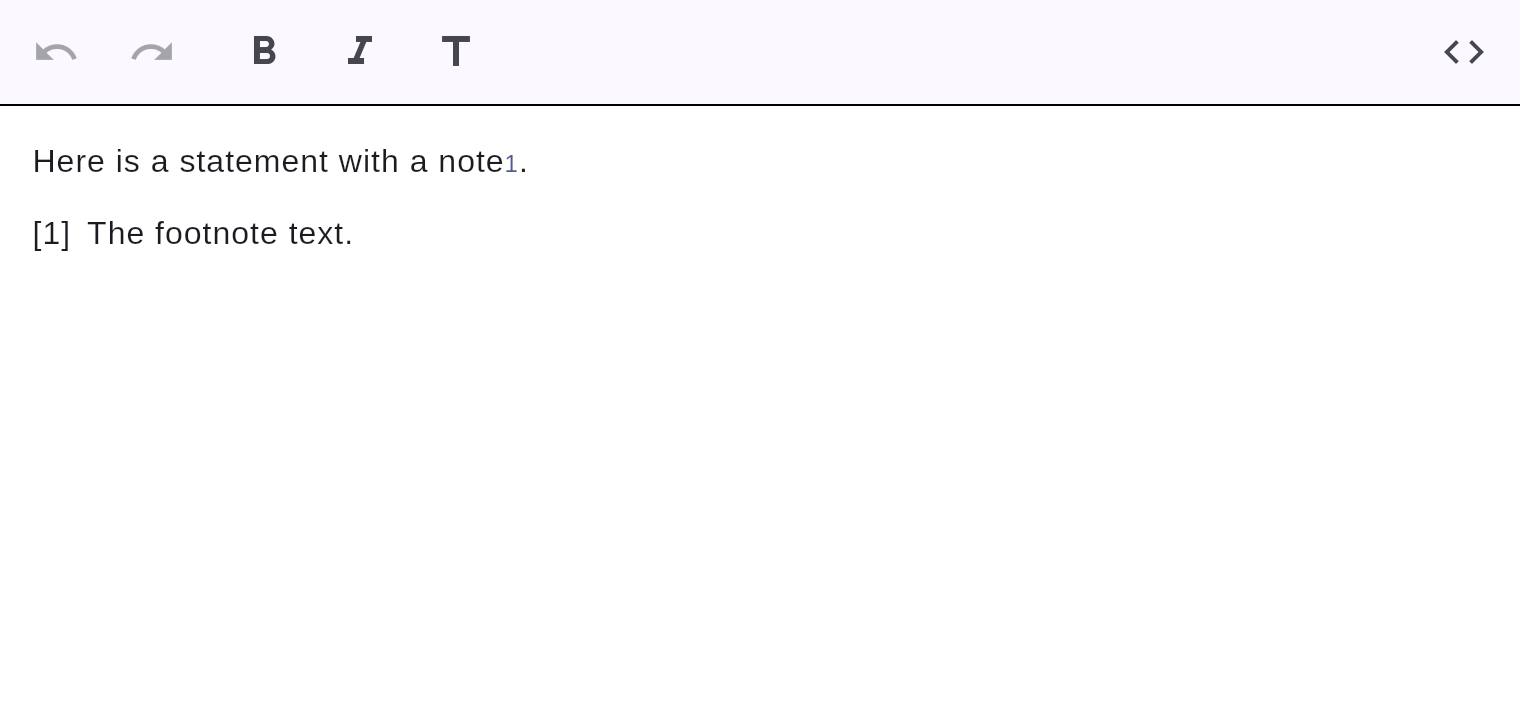
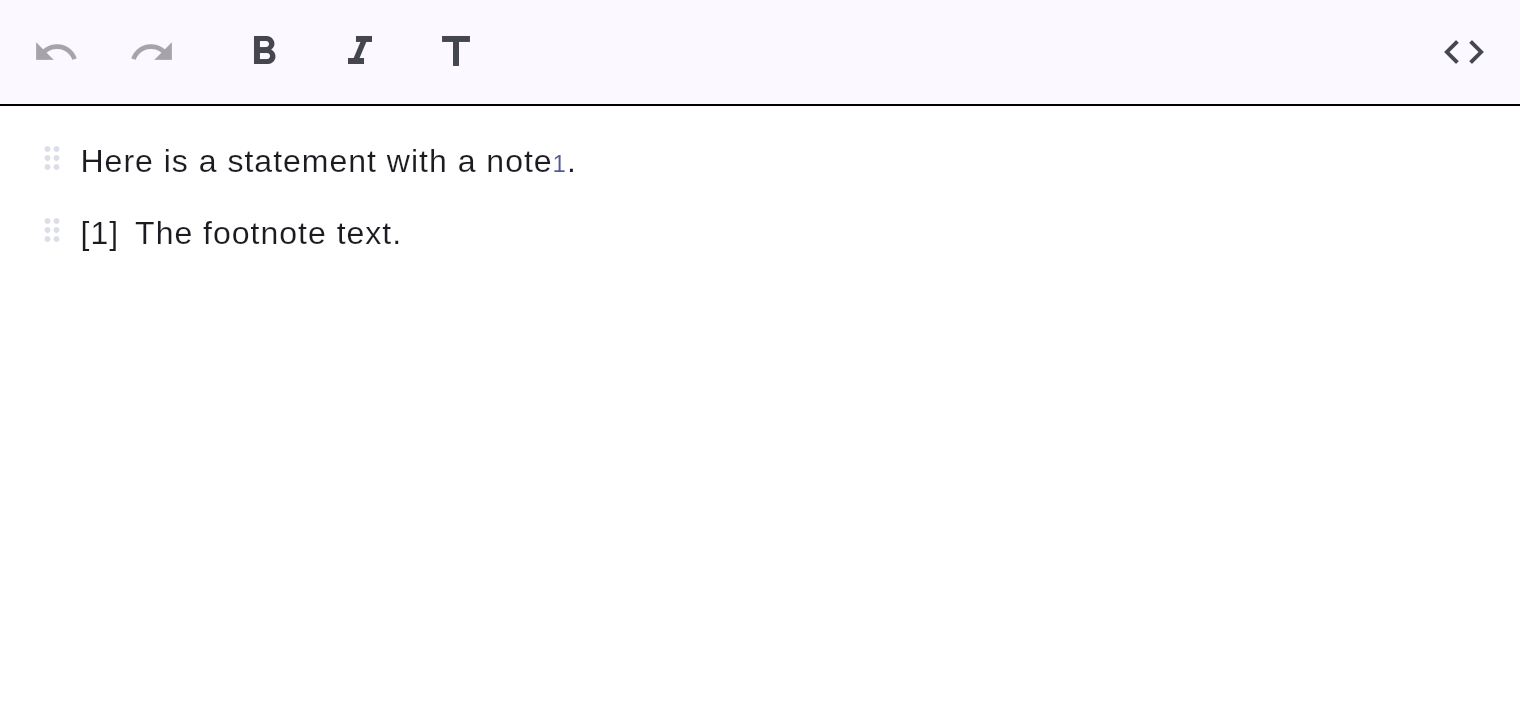
Add block drag handles for mouse reordering
Each editable block gets a hover-revealed drag handle in the left gutter
(a Draggable<int>); blocks are DragTargets that reorder on drop, backed by the
new controller.reorderBlock(from, to) (single undo unit). The handle sits
outside the text-hit area so it doesn't disturb caret/selection. Unit + UI
tested; docs updated.

Changed region(s): [[0.0309, 0.2139, 0.3711, 0.2444], [0.0, 0.3056, 0.2783, 0.3361]]

diff --git a/lib/src/widget/markdown_editor.dart b/lib/src/widget/markdown_editor.dart
@@ -788,6 +788,38 @@ class _MarkdownEditorState extends State<MarkdownEditor> with TextInputClient {
     );
   }
 
+  /// Builds the rendered widget for a single block (without the reorder handle).
+  Widget _blockContent(Node node, EditorStyle style) {
+    if (node is CodeBlockNode) return _buildCodeBlock(node, style);
+    if (node is HorizontalRuleNode) return _buildHr(node, style);
+    if (node is ImageNode) {
+      return Semantics(
+        image: true,
+        excludeSemantics: true,
+        label: (node.alt == null || node.alt!.isEmpty) ? 'image' : node.alt,
+        child: _buildImage(node, style),
+      );
+    }
+    if (node is MathBlockNode) return _buildMath(node, style);
+    if (node is TableNode) {
+      return widget.readOnly
+          ? _buildTable(node, style)
+          : _EditableTable(node: node, style: style, controller: _c);
+    }
+    if (node is MermaidNode) {
+      return widget.diagramRenderer.build(context, node, style);
+    }
+    if (node is FrontMatterNode) return _buildFrontMatter(node, style);
+    if (node is TextBlockNode) {
+      return Semantics(
+        header: node.type == BlockType.heading,
+        label: node.delta.toPlainText(),
+        child: _buildBlock(node, style),
+      );
+    }
+    return const SizedBox.shrink();
+  }
+
   Widget _buildWysiwyg() {
     final style = _resolveStyle();
     final slashQuery = _slashSuppressed ? null : _activeSlashQuery();
@@ -819,41 +851,15 @@ class _MarkdownEditorState extends State<MarkdownEditor> with TextInputClient {
                       SizedBox(height: style.blockSpacing),
                   itemBuilder: (context, index) {
                     final node = _c.document.nodes[index];
-                    if (node is CodeBlockNode) {
-                      return _buildCodeBlock(node, style);
-                    }
-                    if (node is HorizontalRuleNode) return _buildHr(node, style);
-                    if (node is ImageNode) {
-                      return Semantics(
-                        image: true,
-                        excludeSemantics: true,
-                        label: (node.alt == null || node.alt!.isEmpty)
-                            ? 'image'
-                            : node.alt,
-                        child: _buildImage(node, style),
-                      );
-                    }
-                    if (node is MathBlockNode) return _buildMath(node, style);
-                    if (node is TableNode) {
-                      return widget.readOnly
-                          ? _buildTable(node, style)
-                          : _EditableTable(
-                              node: node, style: style, controller: _c);
-                    }
-                    if (node is MermaidNode) {
-                      return widget.diagramRenderer.build(context, node, style);
-                    }
-                    if (node is FrontMatterNode) {
-                      return _buildFrontMatter(node, style);
-                    }
-                    if (node is TextBlockNode) {
-                      return Semantics(
-                        header: node.type == BlockType.heading,
-                        label: node.delta.toPlainText(),
-                        child: _buildBlock(node, style),
-                      );
-                    }
-                    return const SizedBox.shrink();
+                    final content = _blockContent(node, style);
+                    if (widget.readOnly) return content;
+                    return _ReorderableBlock(
+                      index: index,
+                      handleKey: ValueKey('markey-drag-${node.id}'),
+                      onReorder: _c.reorderBlock,
+                      accent: style.caretColor,
+                      child: content,
+                    );
                   },
                 ),
               ),
@@ -1438,6 +1444,81 @@ class _CachedLayout {
   final Delta delta;
   final TextPainter painter;
   final int styleVersion;
+}
+
+/// Wraps a block with a hover-revealed drag handle (a [Draggable] of the block
+/// index) and makes the block a [DragTarget], so blocks can be reordered by
+/// dragging the handle. The handle sits in a narrow left gutter, outside the
+/// block's text-hit area, so it doesn't interfere with caret/selection.
+class _ReorderableBlock extends StatefulWidget {
+  const _ReorderableBlock({
+    required this.index,
+    required this.handleKey,
+    required this.onReorder,
+    required this.accent,
+    required this.child,
+  });
+
+  final int index;
+  final Key handleKey;
+  final void Function(int from, int to) onReorder;
+  final Color accent;
+  final Widget child;
+
+  @override
+  State<_ReorderableBlock> createState() => _ReorderableBlockState();
+}
+
+class _ReorderableBlockState extends State<_ReorderableBlock> {
+  bool _hovering = false;
+  bool _dragOver = false;
+
+  @override
+  Widget build(BuildContext context) {
+    final handle = MouseRegion(
+      cursor: SystemMouseCursors.grab,
+      onEnter: (_) => setState(() => _hovering = true),
+      onExit: (_) => setState(() => _hovering = false),
+      child: Draggable<int>(
+        key: widget.handleKey,
+        data: widget.index,
+        affinity: Axis.vertical,
+        feedback: Material(
+          color: Colors.transparent,
+          child: Icon(Icons.drag_indicator, color: widget.accent),
+        ),
+        child: Opacity(
+          opacity: _hovering ? 0.7 : 0.25,
+          child: Icon(Icons.drag_indicator,
+              size: 18, color: widget.accent.withValues(alpha: 0.8)),
+        ),
+      ),
+    );
+
+    return DragTarget<int>(
+      onWillAcceptWithDetails: (d) => d.data != widget.index,
+      onAcceptWithDetails: (d) => widget.onReorder(d.data, widget.index),
+      onMove: (_) => setState(() => _dragOver = true),
+      onLeave: (_) => setState(() => _dragOver = false),
+      builder: (context, _, __) => Container(
+        decoration: _dragOver
+            ? BoxDecoration(
+                border: Border(
+                    top: BorderSide(color: widget.accent, width: 2)))
+            : null,
+        child: Row(
+          crossAxisAlignment: CrossAxisAlignment.start,
+          children: [
+            Padding(
+              padding: const EdgeInsets.only(top: 2, right: 4),
+              child: SizedBox(width: 20, child: handle),
+            ),
+            Expanded(child: widget.child),
+          ],
+        ),
+      ),
+    );
+  }
 }
 
 class _BlockPainter extends CustomPainter {

diff --git a/test/widget/reorder_ui_test.dart b/test/widget/reorder_ui_test.dart
@@ -1,0 +1,64 @@
+import 'package:flutter/material.dart';
+import 'package:flutter_test/flutter_test.dart';
+import 'package:markey_mark/markey_mark.dart';
+
+/// End-to-end UI tests for block reordering via drag handles.
+void main() {
+  Future<MarkdownEditorController> pump(
+    WidgetTester tester,
+    String markdown, {
+    bool readOnly = false,
+  }) async {
+    final c = MarkdownEditorController(markdown: markdown);
+    addTearDown(c.dispose);
+    await tester.pumpWidget(
+      MaterialApp(
+        home: Scaffold(
+          body: SizedBox(
+            width: 600,
+            height: 500,
+            child: MarkdownEditor(controller: c, readOnly: readOnly),
+          ),
+        ),
+      ),
+    );
+    await tester.pump();
+    return c;
+  }
+
+  List<String> order(MarkdownEditorController c) => c.document.nodes
+      .map((n) => (n as TextBlockNode).delta.toPlainText())
+      .toList();
+
+  testWidgets('each block shows a drag handle', (tester) async {
+    final c = await pump(tester, 'a\n\nb');
+    for (final n in c.document.nodes) {
+      expect(find.byKey(ValueKey('markey-drag-${n.id}')), findsOneWidget);
+    }
+    await tester.pumpWidget(const SizedBox());
+  });
+
+  testWidgets('dragging a block handle onto a later block reorders it',
+      (tester) async {
+    final c = await pump(tester, 'a\n\nb\n\nc');
+    final aId = c.document.nodes.first.id;
+    final cId = c.document.nodes.last.id;
+    final handle = find.byKey(ValueKey('markey-drag-$aId'));
+    final targetCenter =
+        tester.getCenter(find.byKey(ValueKey('markey-block-$cId')));
+    final from = tester.getCenter(handle);
+
+    await tester.drag(handle, targetCenter - from);
+    await tester.pumpAndSettle();
+
+    expect(order(c), ['b', 'c', 'a']);
+    await tester.pumpWidget(const SizedBox());
+  });
+
+  testWidgets('read-only editors have no drag handles', (tester) async {
+    final c = await pump(tester, 'a\n\nb', readOnly: true);
+    expect(find.byKey(ValueKey('markey-drag-${c.document.nodes.first.id}')),
+        findsNothing);
+    await tester.pumpWidget(const SizedBox());
+  });
+}

diff --git a/test/unit/reorder_test.dart b/test/unit/reorder_test.dart
@@ -1,0 +1,41 @@
+import 'package:flutter_test/flutter_test.dart';
+import 'package:markey_mark/markey_mark.dart';
+
+void main() {
+  group('reorderBlock', () {
+    test('moves a block to a later index', () {
+      final c = MarkdownEditorController(markdown: 'a\n\nb\n\nc');
+      final aId = c.document.nodes.first.id;
+      c.reorderBlock(0, 2);
+      expect(c.document.nodes.map((n) => (n as TextBlockNode).delta.toPlainText()),
+          ['b', 'c', 'a']);
+      expect(c.document.nodes.last.id, aId); // identity preserved
+      c.dispose();
+    });
+
+    test('moves a block to an earlier index', () {
+      final c = MarkdownEditorController(markdown: 'a\n\nb\n\nc');
+      c.reorderBlock(2, 0);
+      expect(c.document.nodes.map((n) => (n as TextBlockNode).delta.toPlainText()),
+          ['c', 'a', 'b']);
+      c.dispose();
+    });
+
+    test('is a single undo unit', () {
+      final c = MarkdownEditorController(markdown: 'a\n\nb');
+      c.reorderBlock(0, 1);
+      expect(c.markdown, 'b\n\na');
+      c.undo();
+      expect(c.markdown, 'a\n\nb');
+      c.dispose();
+    });
+
+    test('out-of-range or no-op indices do nothing', () {
+      final c = MarkdownEditorController(markdown: 'a\n\nb');
+      c.reorderBlock(0, 0);
+      c.reorderBlock(5, 0);
+      expect(c.markdown, 'a\n\nb');
+      c.dispose();
+    });
+  });
+}

diff --git a/lib/src/widget/controller.dart b/lib/src/widget/controller.dart
@@ -391,6 +391,23 @@ class MarkdownEditorController extends ChangeNotifier {
   void moveBlockUp(String nodeId) => _moveBlock(nodeId, -1);
   void moveBlockDown(String nodeId) => _moveBlock(nodeId, 1);
 
+  /// Moves the block at index [from] so it lands at index [to] in the resulting
+  /// document (one undo unit). No-op for equal or out-of-range indices.
+  void reorderBlock(int from, int to) {
+    _canRevertRule = false;
+    final n = document.length;
+    if (from < 0 || from >= n || from == to) return;
+    final node = document.nodes[from];
+    // After removing [from], the destination index in the shrunken list.
+    final dest = to.clamp(0, n - 1);
+    _editor.apply(EditTransaction(
+      operations: [DeleteNodeOp(from, node), InsertNodeOp(dest, node)],
+      selectionBefore: selection,
+      selectionAfter: selection,
+      tag: 'reorder-block',
+    ));
+  }
+
   void _moveBlock(String nodeId, int dir) {
     _canRevertRule = false;
     final i = document.indexOfId(nodeId);

diff --git a/docs/editing/keyboard-shortcuts.md b/docs/editing/keyboard-shortcuts.md
@@ -32,11 +32,13 @@ The whole operation is a single undo step. Programmatically: `controller.selectA
 
 ## Block reordering
 
-| Shortcut | Action |
-|----------|--------|
-| <kbd>Alt</kbd>+<kbd>↑</kbd> / <kbd>Alt</kbd>+<kbd>↓</kbd> | Move the current block up / down |
+| Action | How |
+|--------|-----|
+| Move the current block up / down | <kbd>Alt</kbd>+<kbd>↑</kbd> / <kbd>Alt</kbd>+<kbd>↓</kbd> |
+| Move a block anywhere | Drag its **handle** (the grip that appears in the left gutter on hover) onto another block |
 
-Also available programmatically: `controller.moveBlockUp(nodeId)` / `moveBlockDown(nodeId)`.
+Also available programmatically: `controller.moveBlockUp(nodeId)` /
+`moveBlockDown(nodeId)`, and `controller.reorderBlock(fromIndex, toIndex)`.
 
 ## Paste
 
